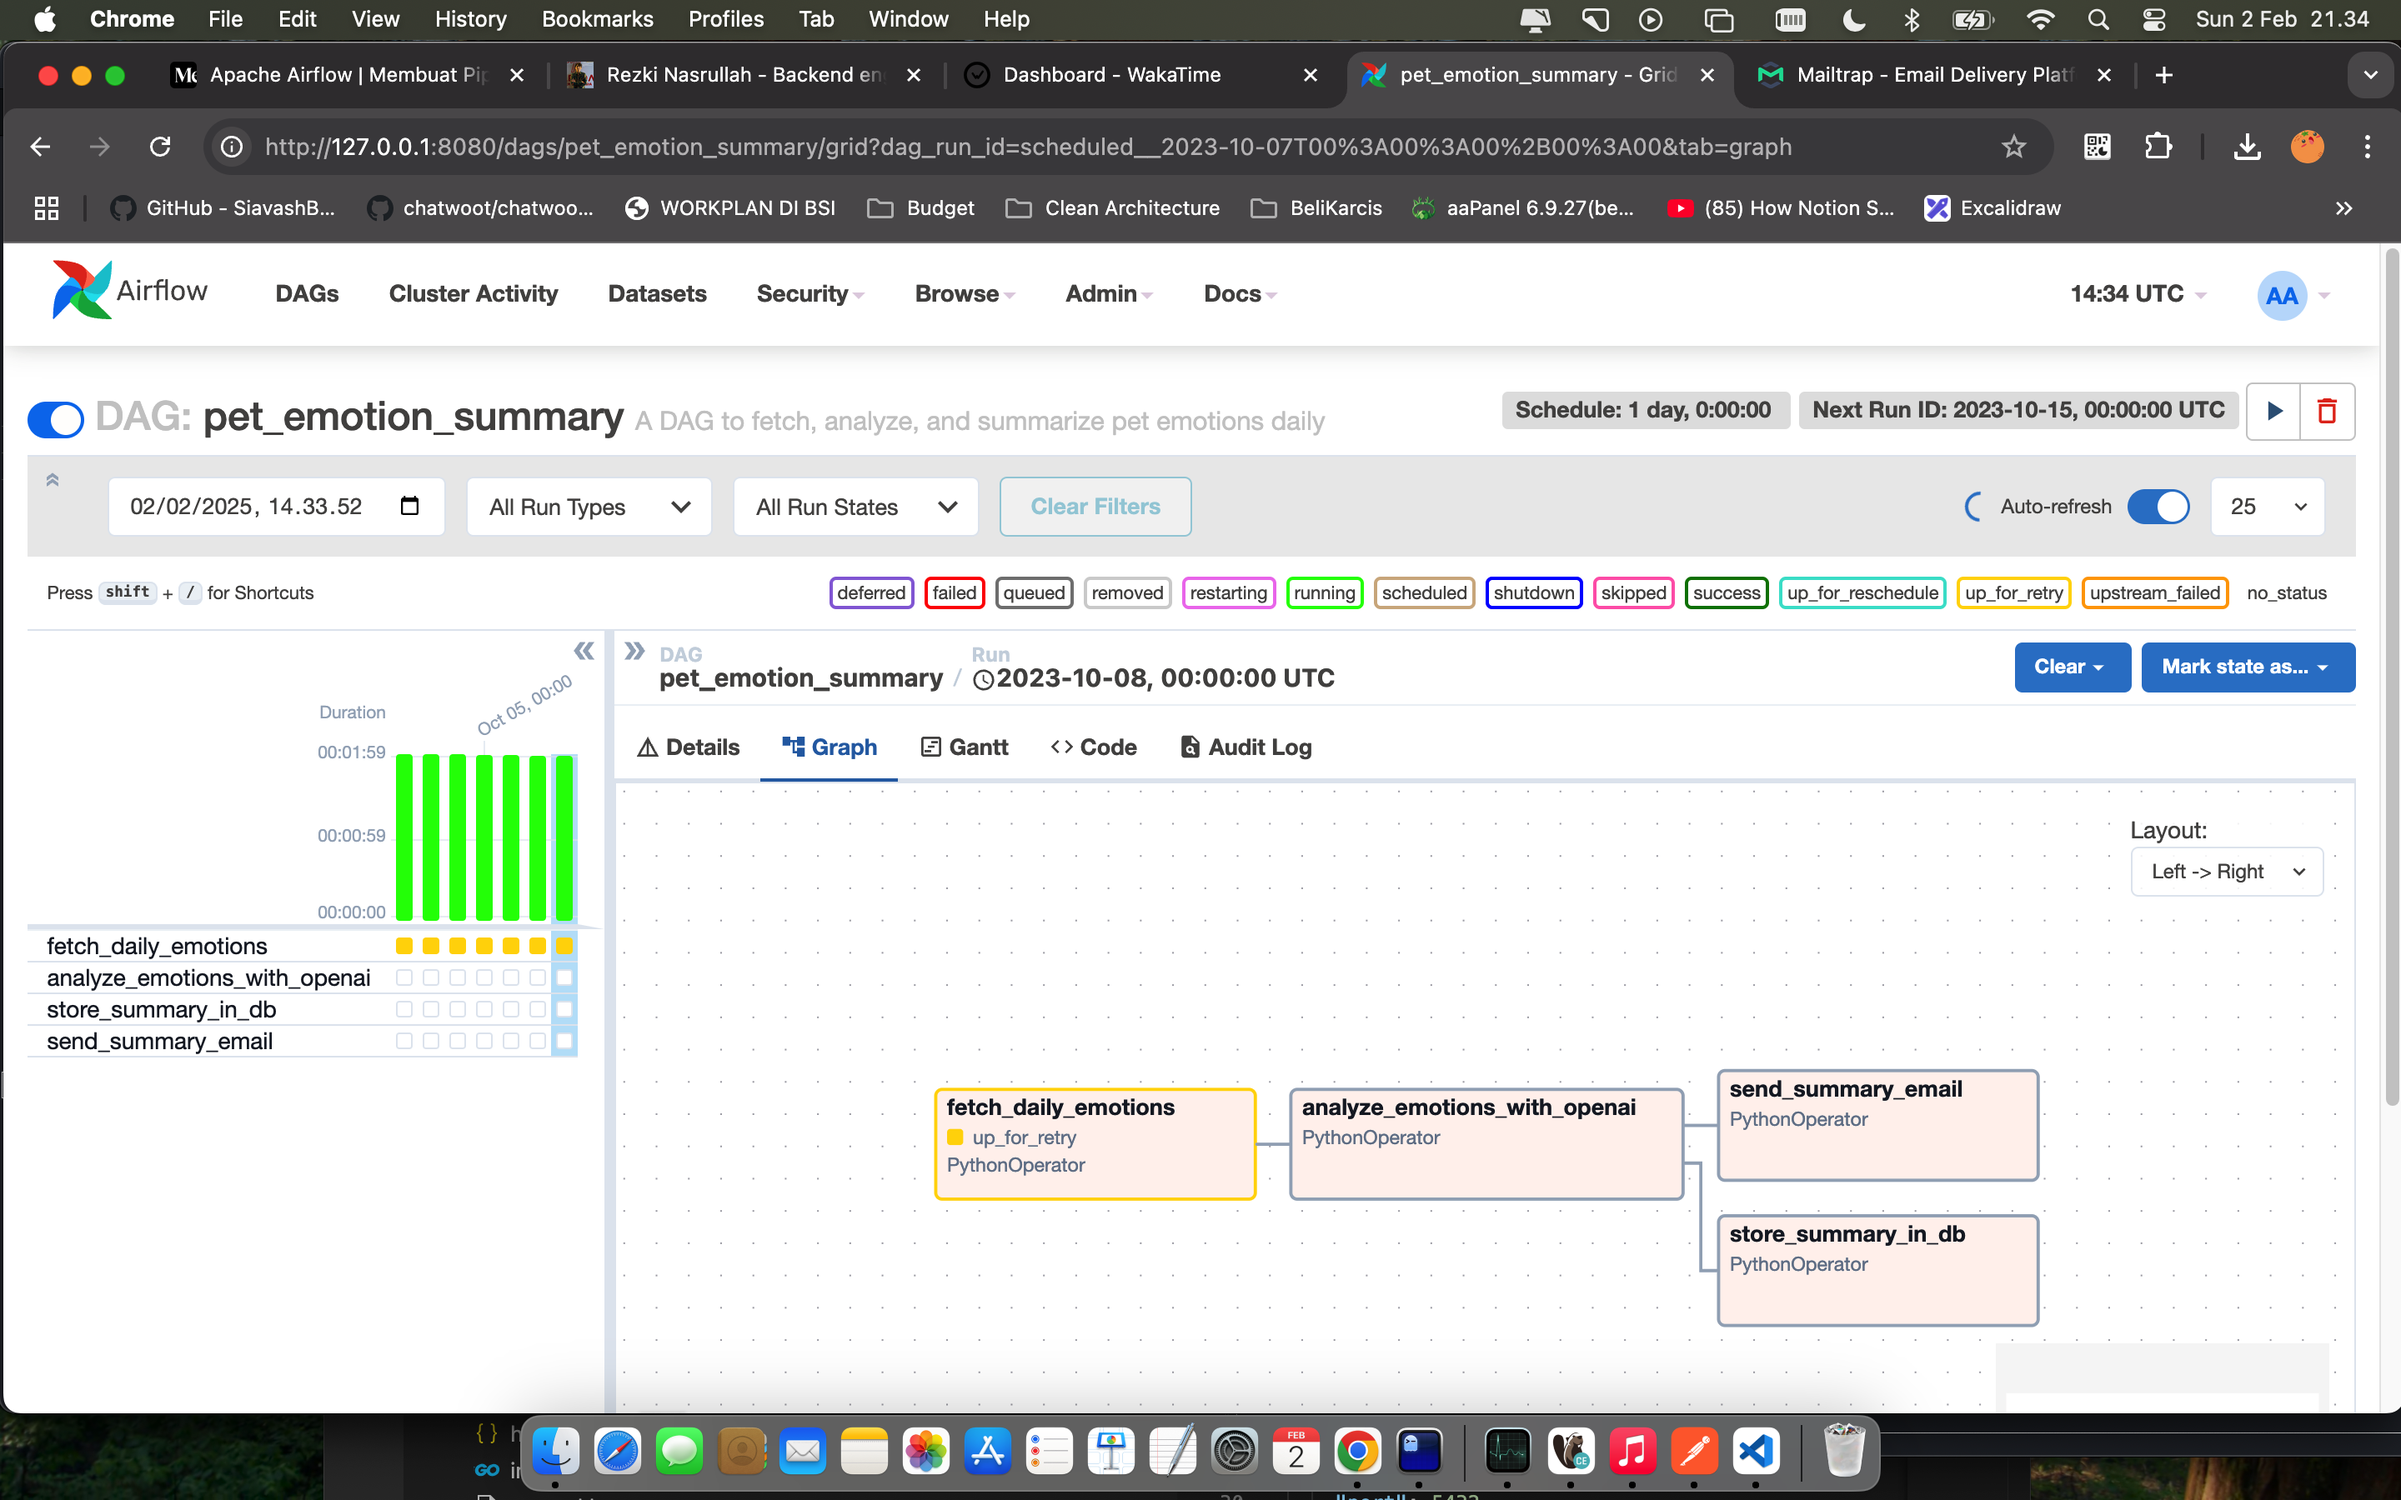
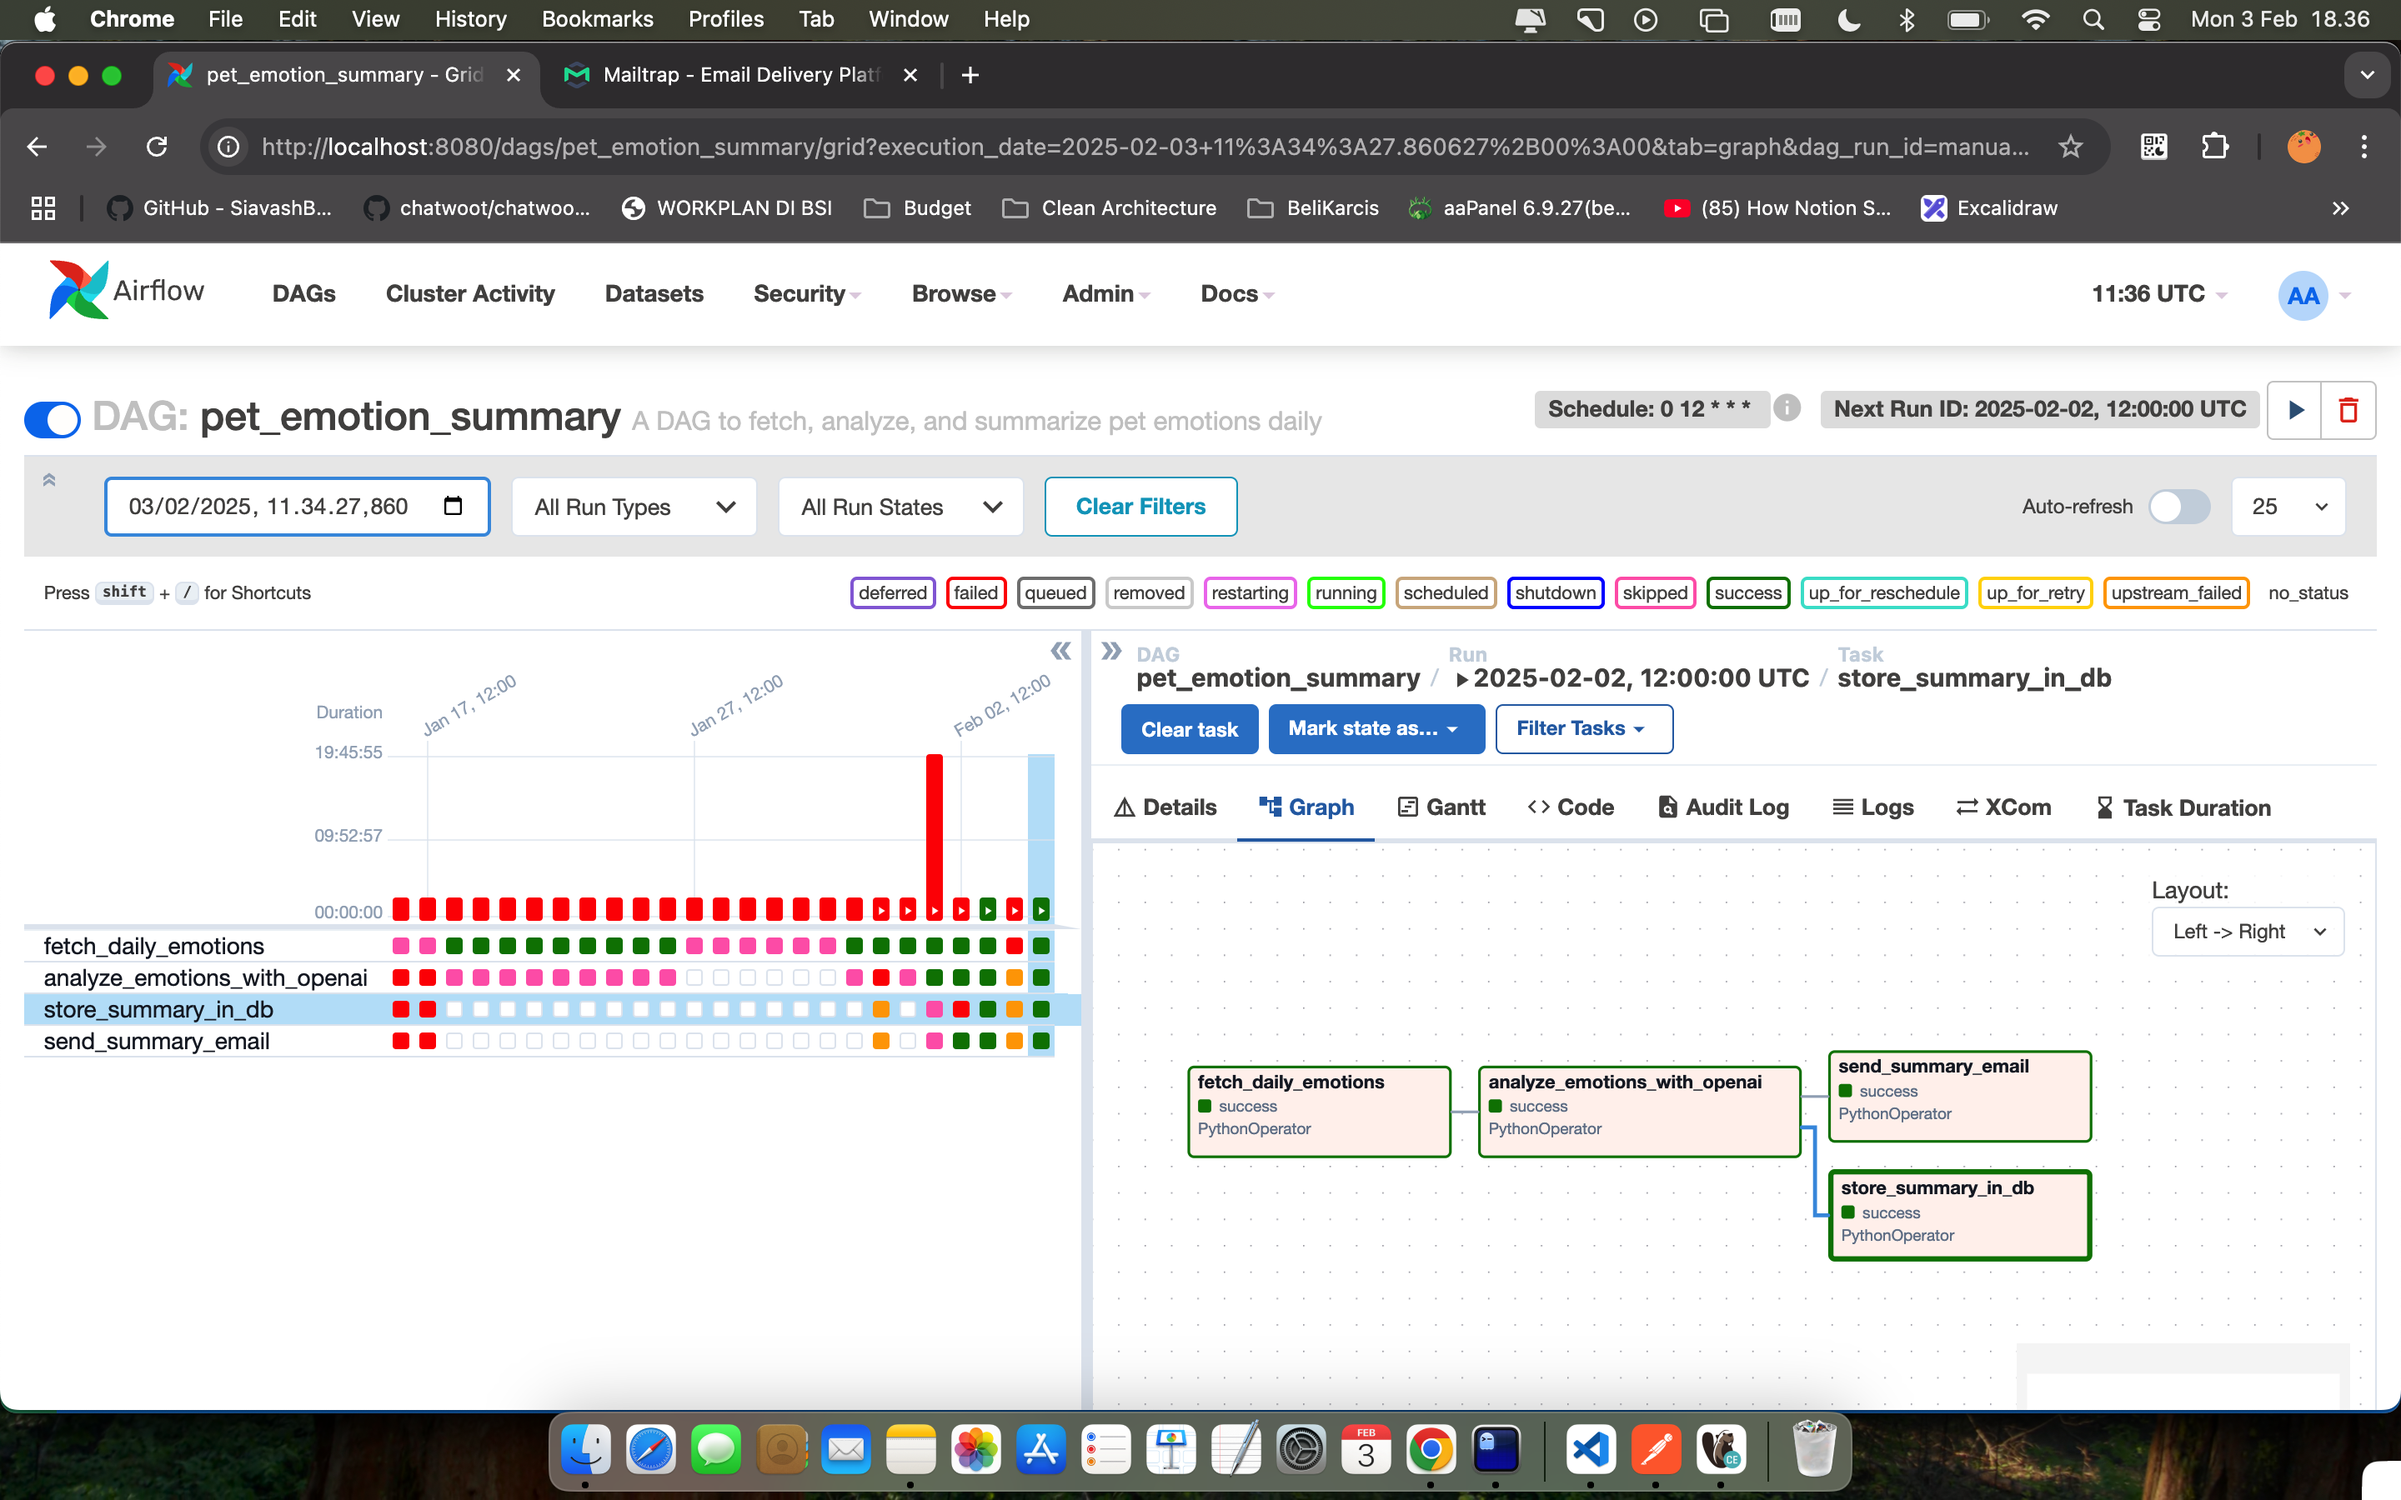
Fix DAG and add new screenshots

diff --git a/dags/pet_emotion_summary.py b/dags/pet_emotion_summary.py
@@ -2,18 +2,21 @@ from airflow import DAG
 from airflow.operators.python_operator import PythonOperator
 from datetime import datetime, timedelta
 import requests
-from openai import OpenAI
 import smtplib
 from email.mime.text import MIMEText
 from email.mime.multipart import MIMEMultipart
 import psycopg2  # PostgreSQL library
 import os
 from dotenv import load_dotenv
+from anthropic import Anthropic
 
 load_dotenv()
 
 # OpenAI configuration
 OPENAI_API_KEY = os.getenv("OPENAI_API_KEY")
+client = Anthropic(
+    api_key=OPENAI_API_KEY, 
+)
 
 # NestJS API configuration
 PET_ID = os.getenv("PET_ID", "129c658c-876a-4118-8987-c766d32651e9")
@@ -62,26 +65,29 @@ def analyze_emotions_with_openai(emotions):
             "Summary:"
         )
 
-        client = OpenAI(api_key=OPENAI_API_KEY)
-        model = "gpt-3.5-turbo"
-       # Create a chat completion
-        response = client.chat.completions.create(
+        model = "claude-3-5-sonnet-latest"
+        # Create a chat completion
+        message = client.messages.create(
             model=model,
-            messages=[
-                {"role": "user", "content": prompt}
-            ],
+            max_tokens=1024,
             temperature=0.7,
-            max_tokens=100
+            messages=[
+                {
+                    "role": "user",
+                    "content": prompt
+                }
+            ]
         )
         
-        # Extract the response text
-        summary = response.choices[0].message.content.strip()
+        # Return the response text
+        summary = message.content[0].text
         return summary
     except Exception as e:
         raise Exception(f"OpenAI API failed: {e}")
 
 def store_summary_in_db(summary):
     """Store the summary in a PostgreSQL database."""
+    connection = None
     try:
         # Connect to the PostgreSQL database
         connection = psycopg2.connect(
@@ -95,10 +101,10 @@ def store_summary_in_db(summary):
 
         # Insert the summary into the database
         insert_query = """
-        INSERT INTO pet_emotion_summaries (pet_id, summary, createdAt)
-        VALUES (%s, %s, %s);
+        INSERT INTO pet_emotion_summaries (pet_id, summary)
+        VALUES (%s, %s);
         """
-        cursor.execute(insert_query, (PET_ID, summary, datetime.now()))
+        cursor.execute(insert_query, (PET_ID, summary))
 
         # Commit the transaction
         connection.commit()
@@ -126,6 +132,7 @@ def send_summary_email(summary):
         body = f"Here is the daily summary of your pet's emotions:\n\n{summary}"
         msg.attach(MIMEText(body, 'plain'))
 
+        print(SMTP_SERVER, SMTP_PORT, SMTP_USERNAME, SMTP_PASSWORD)
         # Connect to the SMTP server and send the email
         with smtplib.SMTP(SMTP_SERVER, SMTP_PORT) as server:
             server.starttls()  # Upgrade the connection to secure

diff --git a/README.md b/README.md
@@ -2,7 +2,7 @@
 
 This is a simple application that allows you to track your pet's emotions.
 
-Log your pet's emotions and see how they change over time and analyze using AI. (OpenAI)
+Log your pet's emotions and see how they change over time and analyze using AI. (Claude/Antropic)
 
 ## Features
 
@@ -21,6 +21,10 @@ This application has the following features:
 ![1](https://github.com/adexaja/pet-emotions-tracker/blob/main/assets/1.png)
 ![1](https://github.com/adexaja/pet-emotions-tracker/blob/main/assets/2.png)
 ![1](https://github.com/adexaja/pet-emotions-tracker/blob/main/assets/3.png)
+![1](https://github.com/adexaja/pet-emotions-tracker/blob/main/assets/4.png)
+![1](https://github.com/adexaja/pet-emotions-tracker/blob/main/assets/5.png)
+![1](https://github.com/adexaja/pet-emotions-tracker/blob/main/assets/6.png)
+![1](https://github.com/adexaja/pet-emotions-tracker/blob/main/assets/7.png)
 
 ## Installation
 
@@ -28,7 +32,7 @@ This application has the following features:
 2. Create a .env file in the root directory and add the following variables:
 
 ```
-OPENAI_API_KEY=<your_openai_api_key>
+OPENAI_API_KEY=<your_claude_api>
 NESTJS_API_URL=<your_nestjs_api_url>
 PET_ID=<your_pet_id> (currently only support to detect 1 pet at the time per dag)
 EMAIL_RECIPIENT=<your_email_recipient>
@@ -53,6 +57,9 @@ DB_PASSWORD=<your_db_password>
 5. Open <http://localhost:8080> in your browser to Access Apache Airflow
 6. Open <http://localhost:3000> in your browser to Access NestJS API
 7. NestJS Postman Collection is in documentation folder
+8. Add new Pet on {{baseUrl}}/pets
+9. Add New Emotion on {{baseUrl}}/pet-emotions (We act like this log is come from IoT)
+10. The summary will send at 12.00 PM
 
 ## For further integrations
 
